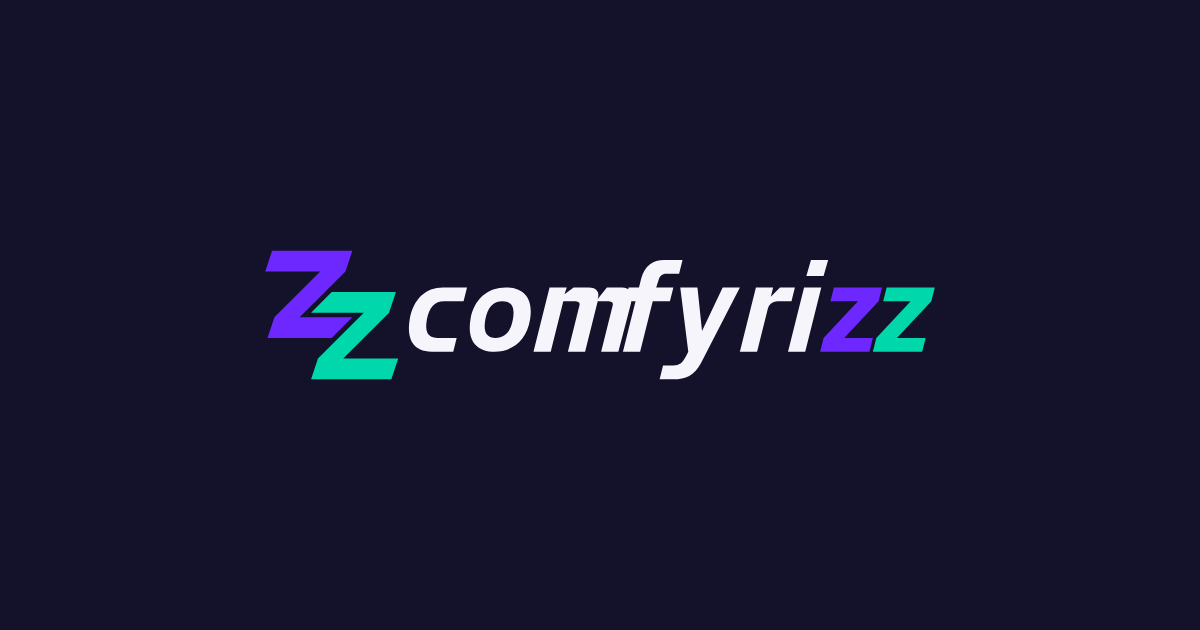
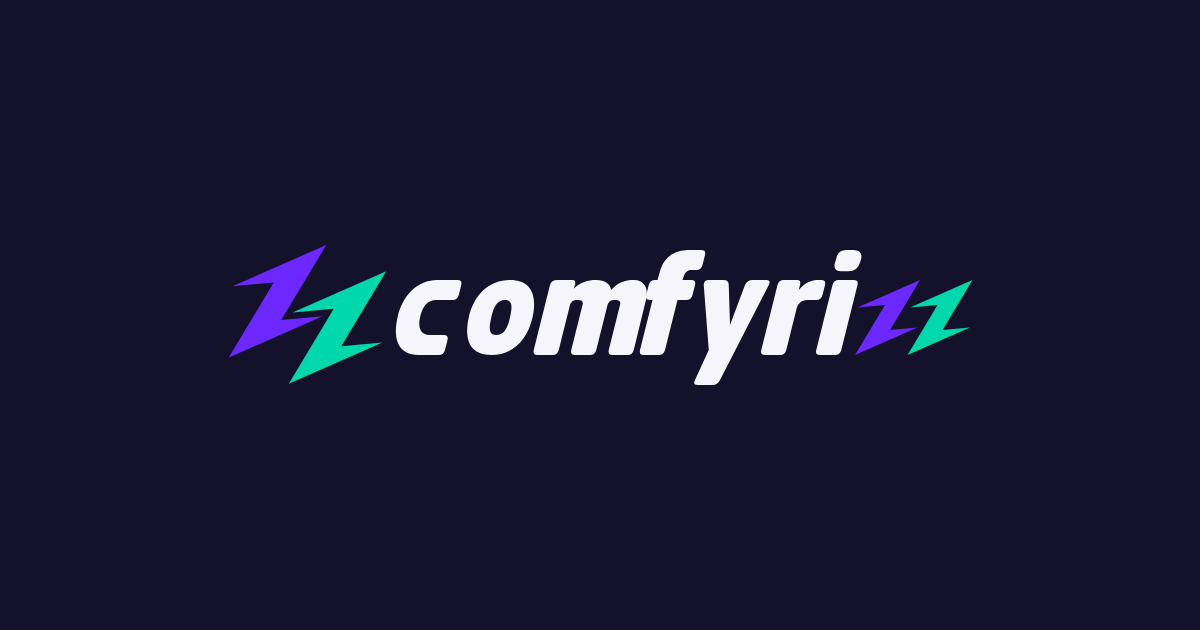
brand BR04b: BR04b README header + social card (rerun on revised masters) (local worker att_391e1cdf4e6f5ffc)

Changed region(s): [[0.185, 0.3921, 0.8017, 0.6333]]

diff --git a/README.md b/README.md
@@ -2,6 +2,7 @@
 
 <picture>
   <source media="(prefers-color-scheme: dark)" srcset="brand/comfyrizz-logo-dark.svg">
+  <source media="(prefers-color-scheme: light)" srcset="brand/comfyrizz-logo-light.svg">
   <img src="brand/comfyrizz-logo-light.svg" alt="Comfyrizz" width="420">
 </picture>
 
